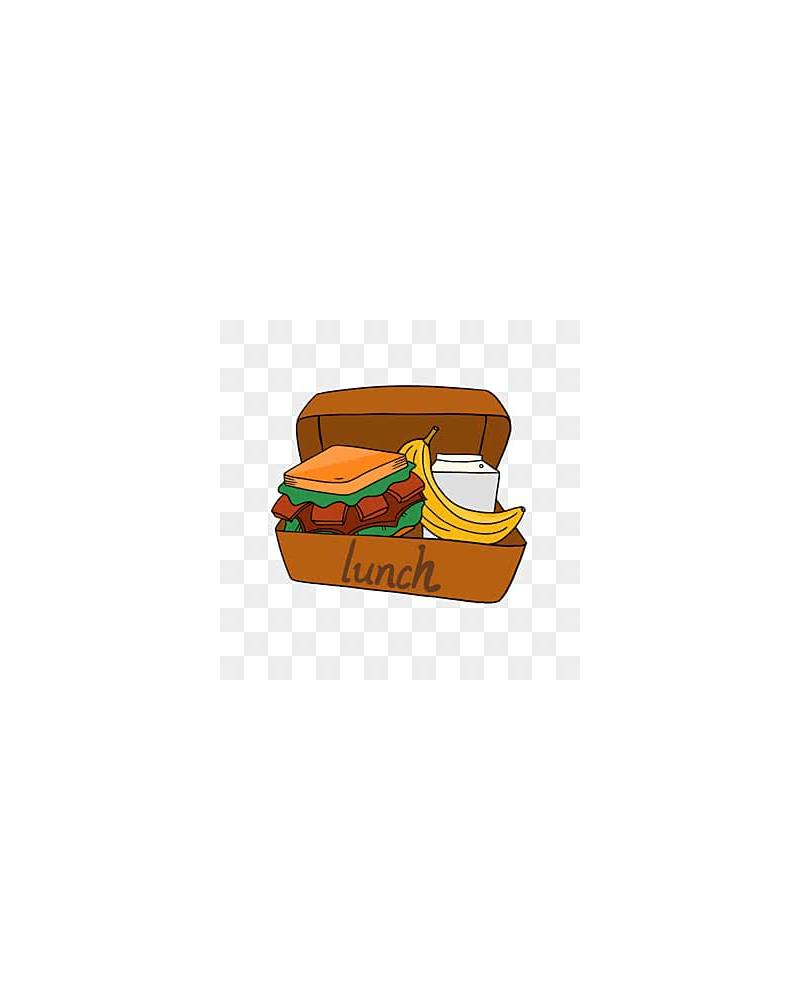
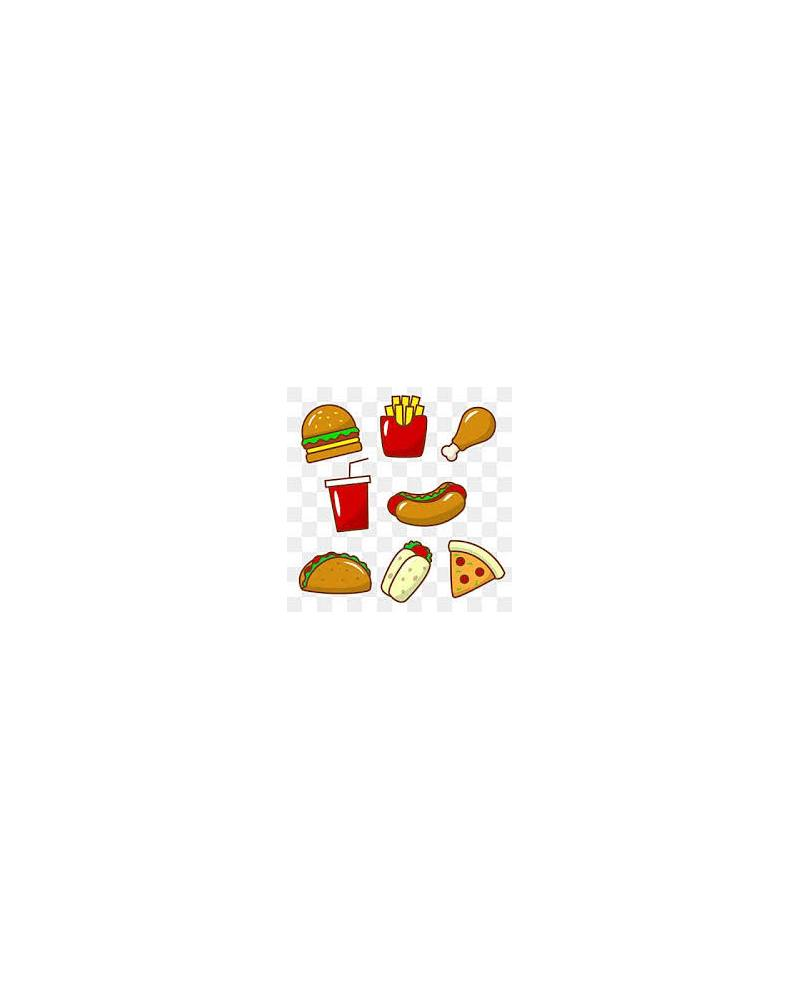
Adjust layout and spacing to fit all contact information on the back cover
Update CSS for `.cover-back` and `.cover-contact-section` to improve content fitting and reduce element spacing, ensuring all contact details are visible within their designated area.

Replit-Commit-Author: Agent
Replit-Commit-Session-Id: dc6d3d80-9c46-453d-ab13-b2490085037b
Replit-Commit-Checkpoint-Type: full_checkpoint
Replit-Commit-Event-Id: e3966fee-6ef0-42af-92eb-d2a37e2ade87
Replit-Commit-Screenshot-Url: https://storage.googleapis.com/screenshot-production-us-central1/6f8edff5-d3f0-4e0e-af46-7d513f97eef8/dc6d3d80-9c46-453d-ab13-b2490085037b/NQUcrVL
Replit-Helium-Checkpoint-Created: true

Changed region(s): [[0.3438, 0.372, 0.6562, 0.62]]

diff --git a/flask-app/templates/catalog.html b/flask-app/templates/catalog.html
@@ -102,11 +102,12 @@
   background: #f8f9fb;
   display: flex !important;
   flex-direction: column;
-  justify-content: center;
-  align-items: center;
-  padding: 44px 36px;
+  justify-content: flex-start;
+  align-items: stretch;
+  padding: 20px 24px 20px;
   position: relative;
   overflow: hidden;
+  box-sizing: border-box;
 }
 .cover-back::before {
   content: '';
@@ -114,6 +115,7 @@
   top: 0; left: 0; right: 0;
   height: 5px;
   background: linear-gradient(90deg, #6c63ff 0%, #f50057 55%, #ff6d00 100%);
+  flex-shrink: 0;
 }
 .cover-back-body {
   display: flex;
@@ -121,52 +123,57 @@
   align-items: center;
   text-align: center;
   width: 100%;
+  margin-top: 10px;
+  flex: 1;
+  min-height: 0;
 }
 .cover-back-brand {
   font-family: 'Inter', sans-serif;
-  font-size: 0.58rem;
+  font-size: 0.55rem;
   font-weight: 700;
-  letter-spacing: 3.5px;
+  letter-spacing: 3px;
   text-transform: uppercase;
   color: #9ca3af;
-  margin-bottom: 18px;
+  margin-bottom: 8px;
+  flex-shrink: 0;
 }
 .cover-back-heading {
   font-family: 'Montserrat', 'Inter', 'Helvetica Neue', sans-serif;
-  font-size: clamp(1.1rem, 4vw, 1.75rem);
+  font-size: clamp(0.95rem, 3.5vw, 1.45rem);
   font-weight: 800;
   line-height: 1.15;
   color: #0f172a;
   letter-spacing: -0.3px;
-  margin: 0 0 6px;
+  margin: 0 0 4px;
+  flex-shrink: 0;
 }
 .cover-back-sub {
   font-family: 'Inter', sans-serif;
-  font-size: 0.72rem;
+  font-size: 0.65rem;
   color: #94a3b8;
   letter-spacing: 0.5px;
-  margin: 0 0 28px;
+  margin: 0 0 12px;
+  flex-shrink: 0;
 }
 .cover-back-cta {
   display: inline-block;
   background: #0f172a;
   color: #fff;
   font-family: 'Inter', sans-serif;
-  font-size: 0.7rem;
+  font-size: 0.62rem;
   font-weight: 600;
-  letter-spacing: 1.8px;
+  letter-spacing: 1.5px;
   text-transform: uppercase;
-  padding: 12px 26px;
+  padding: 9px 22px;
   border-radius: 6px;
   text-decoration: none;
   box-shadow: 0 4px 12px rgba(0,0,0,0.08);
-  margin-bottom: 32px;
+  margin-bottom: 14px;
   border: none;
   cursor: default;
-  transition: transform 0.2s, box-shadow 0.2s;
+  flex-shrink: 0;
 }
 .cover-back-cta:hover {
-  transform: translateY(-1px);
   box-shadow: 0 6px 20px rgba(0,0,0,0.14);
 }
 .cover-contact-section {
@@ -174,39 +181,49 @@
   background: #fff;
   border: 1px solid #e2e8f0;
   border-radius: 10px;
-  padding: 14px 18px;
+  padding: 10px 14px;
   display: flex;
   flex-direction: column;
-  gap: 10px;
+  gap: 0;
+  flex-shrink: 0;
 }
 .cover-contact-row {
   display: flex;
   align-items: center;
-  gap: 10px;
+  gap: 8px;
   font-family: 'Inter', 'Helvetica Neue', sans-serif;
   text-align: left;
+  padding: 5px 0;
+  border-bottom: 1px solid #f1f5f9;
+}
+.cover-contact-row:last-child {
+  border-bottom: none;
+  padding-bottom: 0;
+}
+.cover-contact-row:first-child {
+  padding-top: 0;
 }
 .cover-contact-icon {
-  font-size: 0.8rem;
-  color: #6c63ff;
-  width: 18px;
+  font-size: 0.72rem;
+  width: 16px;
   text-align: center;
   flex-shrink: 0;
 }
 .cover-contact-label {
-  font-size: 0.6rem;
+  font-size: 0.55rem;
   font-weight: 700;
-  letter-spacing: 1px;
+  letter-spacing: 0.8px;
   text-transform: uppercase;
   color: #94a3b8;
-  width: 38px;
+  width: 36px;
   flex-shrink: 0;
 }
 .cover-contact-text {
-  font-size: 0.72rem;
+  font-size: 0.68rem;
   color: #334155;
   font-weight: 500;
   word-break: break-all;
+  line-height: 1.3;
 }
 </style>
 {% endblock %}